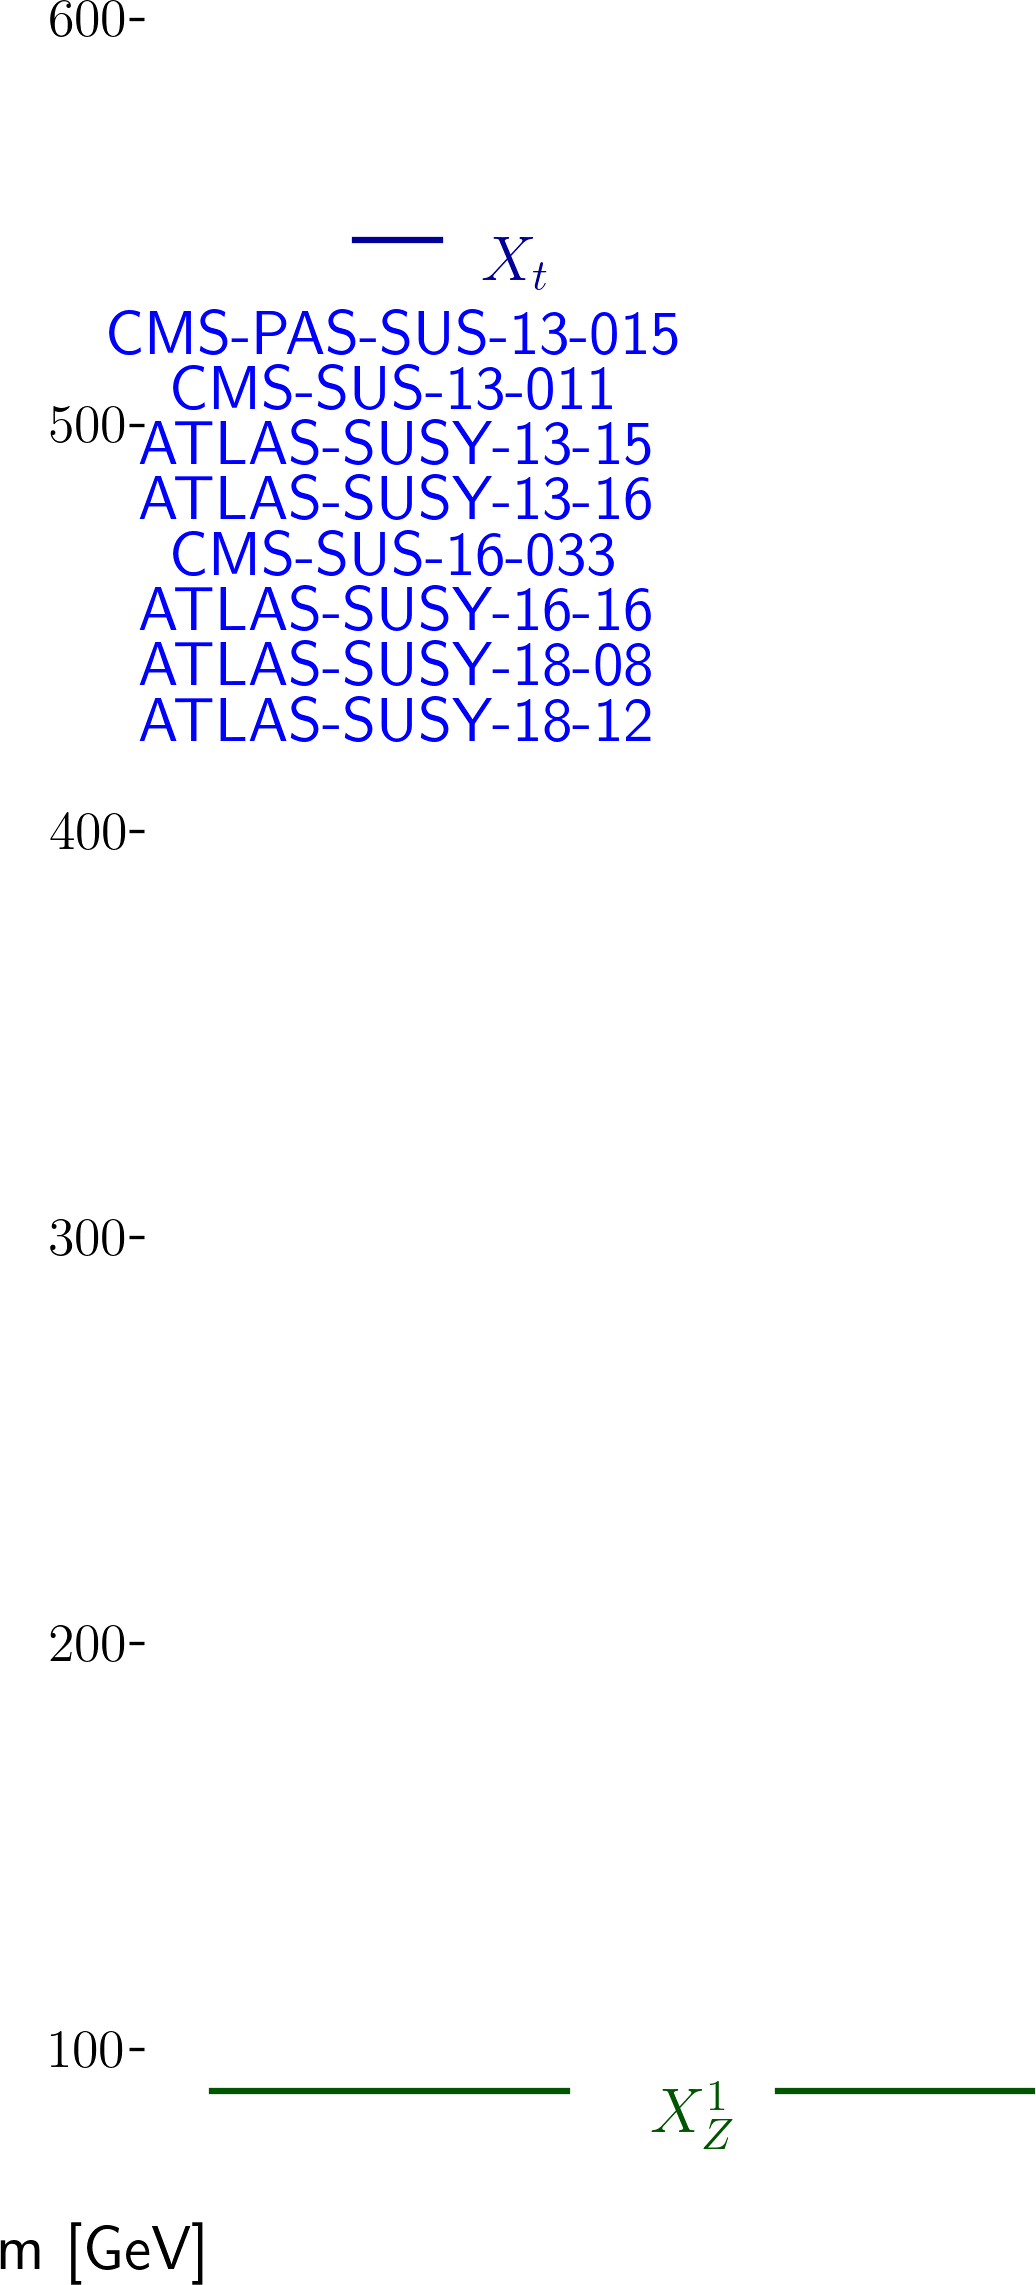
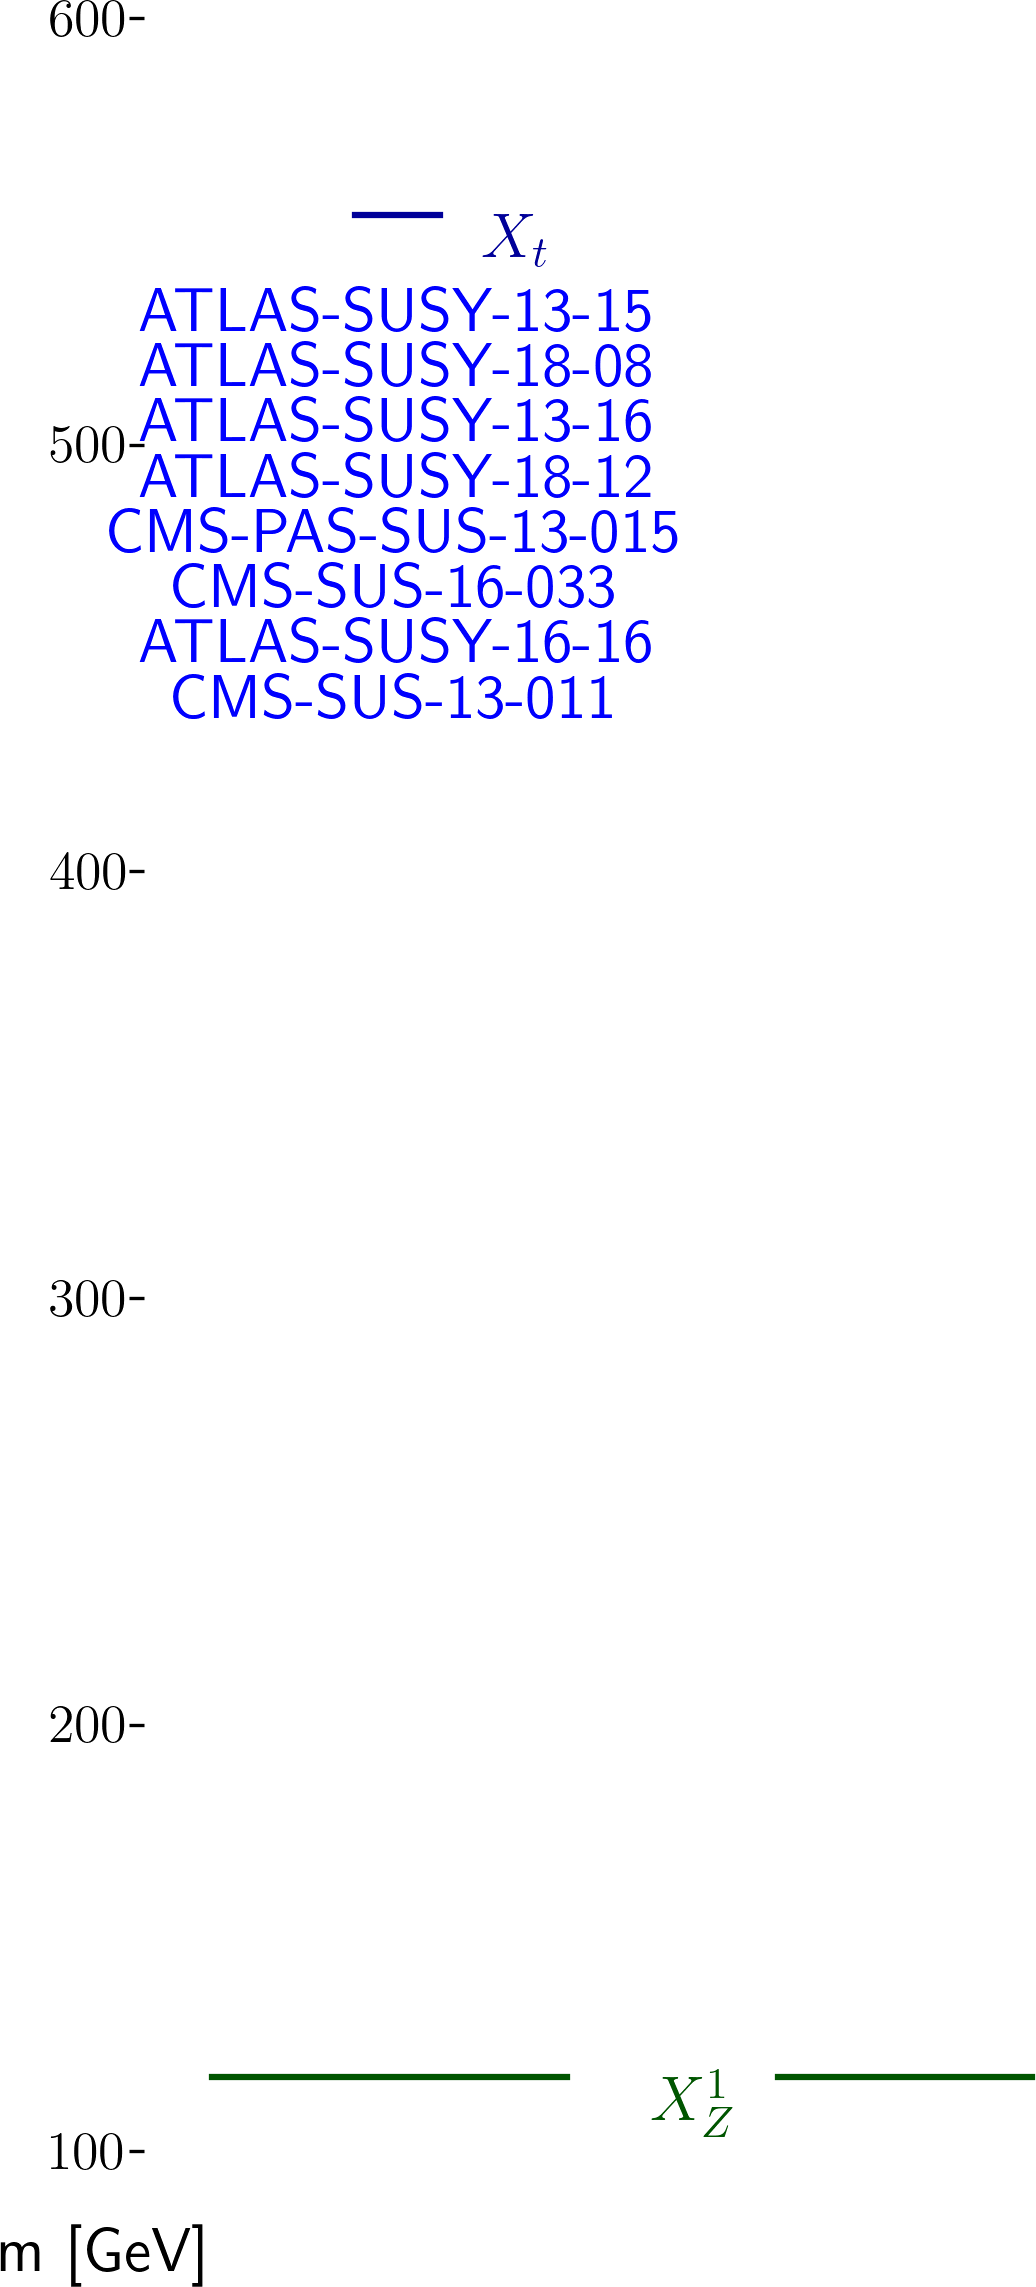
automated update by plotHiscore.py to hadrons_230:     K=4.197 Z=2.54 walkerid=197

diff --git a/protomodels/hadrons_230/index.html b/protomodels/hadrons_230/index.html
@@ -1,33 +1,23 @@
 <html>
 <body>
 <center>
-<table><td><h1>Current best protomodel: <i>K</i>=4.12, <i>Z</i>=2.52</h1><td><img height=60px src=https://smodels.github.io//protomodels/logos/protomodel_lego.png></table>
+<table><td><h1>Current best protomodel: <i>K</i>=4.20, <i>Z</i>=2.54</h1><td><img height=60px src=https://smodels.github.io//protomodels/logos/protomodel_lego.png></table>
 </center>
-<b><a href=./hiscore.slha>ProtoModel</a> <a href=./pmodel.py>(dict)</a> produced with <a href=https://smodels.github.io//docs/Validation230>database v2.3.0</a>, combination strategy <a href=./matrix.png>aggressive</a> in walker 57 step 133.</b>  SSM plots for: <a href=./ssm_-1000006_1000006.png?113200747>(x&#772;<sub>t</sub>,X<sub>t</sub>)</a><br>
+<b><a href=./hiscore.slha>ProtoModel</a> <a href=./pmodel.dict>(dict)</a> produced with <a href=https://smodels.github.io//docs/Validation230>database v2.3.0</a>, combination strategy <a href=./matrix.png>aggressive</a> in walker 197 step 56.</b>  SSM plots for: <a href=./ssm_-1000006_1000006.png?113886896>(x&#772;<sub>t</sub>,X<sub>t</sub>)</a><br>
 <table width=80%>
 <tr><td>
 <br><b>37 predictions available. Highest r values are:</b><br><ul>
-<li><a href=http://cms-results.web.cern.ch/cms-results/public-results/publications/SUS-20-002/index.html>CMS-SUS-20-002</a>:T2tt r=1.30, r<sub>exp</sub>=1.30<br>
-<li><a href=http://cms-results.web.cern.ch/cms-results/public-results/publications/SUS-19-010/index.html>CMS-SUS-19-010</a>:T2tt r=0.92, r<sub>exp</sub>=0.91<br>
-<li><a href=http://cms-results.web.cern.ch/cms-results/public-results/publications/SUS-19-009/index.html>CMS-SUS-19-009</a>:T2tt r=0.87, r<sub>exp</sub>=0.88<br>
-<li><a href=http://cms-results.web.cern.ch/cms-results/public-results/publications/SUS-19-006/index.html>CMS-SUS-19-006-agg</a>:T2tt r=0.75, r<sub>exp</sub>=0.44<br>
-<li><a href=http://cms-results.web.cern.ch/cms-results/public-results/publications/SUS-19-006/index.html>CMS-SUS-19-006</a>:T2tt r=0.71, r<sub>exp</sub>=0.46<br>
+<li><a href=http://cms-results.web.cern.ch/cms-results/public-results/publications/SUS-20-002/index.html>CMS-SUS-20-002</a>:ul:T2tt r=1.30, r<sub>exp</sub>=1.26<br>
+<li><a href=http://cms-results.web.cern.ch/cms-results/public-results/publications/SUS-19-010/index.html>CMS-SUS-19-010</a>:ul:T2tt r=0.94, r<sub>exp</sub>=0.95<br>
+<li><a href=http://cms-results.web.cern.ch/cms-results/public-results/publications/SUS-19-009/index.html>CMS-SUS-19-009</a>:ul:T2tt r=0.86, r<sub>exp</sub>=0.87<br>
+<li><a href=http://cms-results.web.cern.ch/cms-results/public-results/publications/SUS-19-006/index.html>CMS-SUS-19-006-agg</a>:comb:T2tt r=0.76, r<sub>exp</sub>=0.43<br>
+<li><a href=http://cms-results.web.cern.ch/cms-results/public-results/publications/SUS-19-006/index.html>CMS-SUS-19-006</a>:ul:T2tt r=0.74, r<sub>exp</sub>=0.48<br>
 </ul>
-<td><br><b>contributions to K:</b><br>
-<ul>
-<li> <a href=https://twiki.cern.ch/twiki/bin/view/CMSPublic/PhysicsResultsSUS13011>CMS-SUS-13-011</a>: 7.22 (21%)
-<li> <a href=https://twiki.cern.ch/twiki/bin/view/CMSPublic/PhysicsResultsSUS13015>CMS-PAS-SUS-13-015</a>: 6.84 (18%)
-<li> <a href=http://cms-results.web.cern.ch/cms-results/public-results/publications/SUS-16-033/index.html>CMS-SUS-16-033</a>: 6.79 (18%)
-<li> <a href=https://atlas.web.cern.ch/Atlas/GROUPS/PHYSICS/PAPERS/SUSY-2013-16/>ATLAS-SUSY-2013-16</a>: 6.56 (16%)
-<li> <a href=https://atlas.web.cern.ch/Atlas/GROUPS/PHYSICS/PAPERS/SUSY-2013-15/>ATLAS-SUSY-2013-15</a>: 6.56 (16%)
-<li> <a href=https://atlas.web.cern.ch/Atlas/GROUPS/PHYSICS/PAPERS/SUSY-2018-08/>ATLAS-SUSY-2018-08</a>: 5.72 (11%)
-<li> <a href=https://atlas.web.cern.ch/Atlas/GROUPS/PHYSICS/PAPERS/SUSY-2016-16/>ATLAS-SUSY-2016-16</a>: 5.19 (7%)
-<li> <a href=https://atlas.web.cern.ch/Atlas/GROUPS/PHYSICS/PAPERS/SUSY-2018-12/>ATLAS-SUSY-2018-12</a>: 3.18 (-6%)
-<td><img width=600px src=./texdoc.png?1706200747>
-<br><font size=-1>Last updated: Thu Jan 25 17:39:07 2024</font>
+<td><img width=600px src=./texdoc.png?1706886896>
+<br><font size=-1>Last updated: Fri Feb  2 16:14:56 2024</font>
 </table><table style="width:80%">
-<td width=45%><img height=580px src=./ruler.png?1706200747><td width=55%><img height=340px src=./decays.png?1706200747>
-<font size=-3><iframe type="text/html" height="270px" width="100%s" frameborder="0" src="./rawnumbers.html?1706200747"></iframe></font>
+<td width=45%><img height=580px src=./ruler.png?1706886896><td width=55%><img height=340px src=./decays.png?1706886896>
+<font size=-3><iframe type="text/html" height="270px" width="100%s" frameborder="0" src="./rawnumbers.html?1706886896"></iframe></font>
 </table>
 </body>
 </html>

diff --git a/protomodels/hadrons_230/pmodel.py b/protomodels/hadrons_230/pmodel.py
@@ -1,1 +1,1 @@
-{'masses': {1000022: 79.604, 1000006: 535.362}, 'ssmultipliers': {(1000022, 1000022): 0.0, (1000006, 1000006): 0.045, (-1000006, 1000006): 0.045, (-1000006, -1000006): 0.045, (1000006, 1000022): 0.045, (-1000006, 1000022): 0.045}, 'decays': {1000022: {}, 1000006: {(1000022, 6): 1.0}}, 'xsecs[fb]': {((-1000006, 1000006), 8.0): 2.3991985686270345, ((1000022, 1000022), 8.0): 2.832831656656453e-10, ((-1000006, 1000006), 13.0): 15.291283426629422}, 'timestamp': 'Thu Jan 25 17:38:45 2024', 'Z': 2.523, 'K': 4.117, 'walkerid': 57, 'step': 133, 'codever': '2.0', 'smodelsver': '2.3.3', 'dbver': '2.3.0'}
+{'masses': {1000022: 99.814, 1000006: 543.088}, 'ssmultipliers': {(1000022, 1000022): 0.0, (1000006, 1000006): 0.048, (-1000006, 1000006): 0.048, (-1000006, -1000006): 0.048, (1000006, 1000022): 0.048, (-1000006, 1000022): 0.048}, 'decays': {1000022: {}, 1000006: {(1000022, 6): 1.0}}, 'xsecs[fb]': {((-1000006, 1000006), 8.0): 2.313182095785456, ((1000022, 1000022), 8.0): 4.518177004921569e-16, ((-1000006, 1000006), 13.0): 14.894011033744981}, 'timestamp': 'Sun Jan 28 12:07:46 2024', 'Z': 2.534, 'K': 4.173, 'walkerid': 57, 'step': 585, 'codever': '2.0', 'smodelsver': '2.3.3', 'dbver': '2.3.0'}
